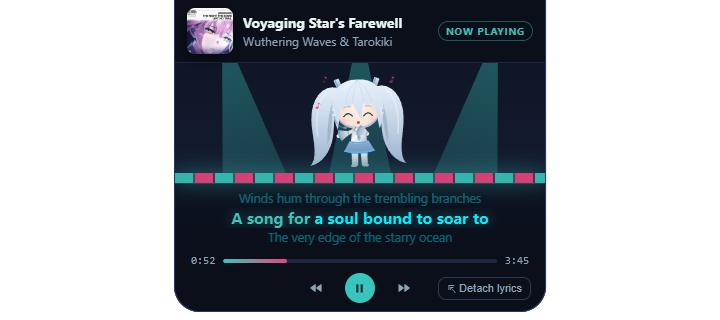
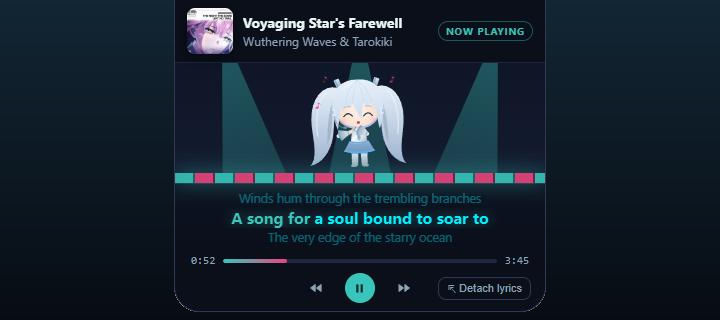
docs: screenshots sit on a dark themed backdrop — no more flat white

diff --git a/README.md b/README.md
@@ -69,7 +69,7 @@ One island at the top of the screen that changes shape with what's going on:
 
 <table>
 <tr>
-<td align="center"><img src="docs/media/miku/capsule-music.png" width="190" alt="The closed capsule playing music, with a live equalizer"><br><sub><b>Closed</b> — the capsule, with what's playing</sub></td>
+<td align="center"><img src="docs/media/miku/capsule-music.png" width="160" alt="The closed capsule playing music, with a live equalizer"><br><sub><b>Closed</b> — the capsule, with what's playing</sub></td>
 <td align="center"><img src="docs/media/miku/deck-pc.png" width="300" alt="The widget deck open on the PC page: CPU, RAM, Disk, Net"><br><sub><b>Open</b> — the PC page, your busiest process included</sub></td>
 <td align="center"><img src="docs/media/miku/deck-focus.png" width="300" alt="The Focus page, a pomodoro timer at 25:00"><br><sub><b>Focus</b> — 25 minutes of focus, then 5 of rest</sub></td>
 </tr>
